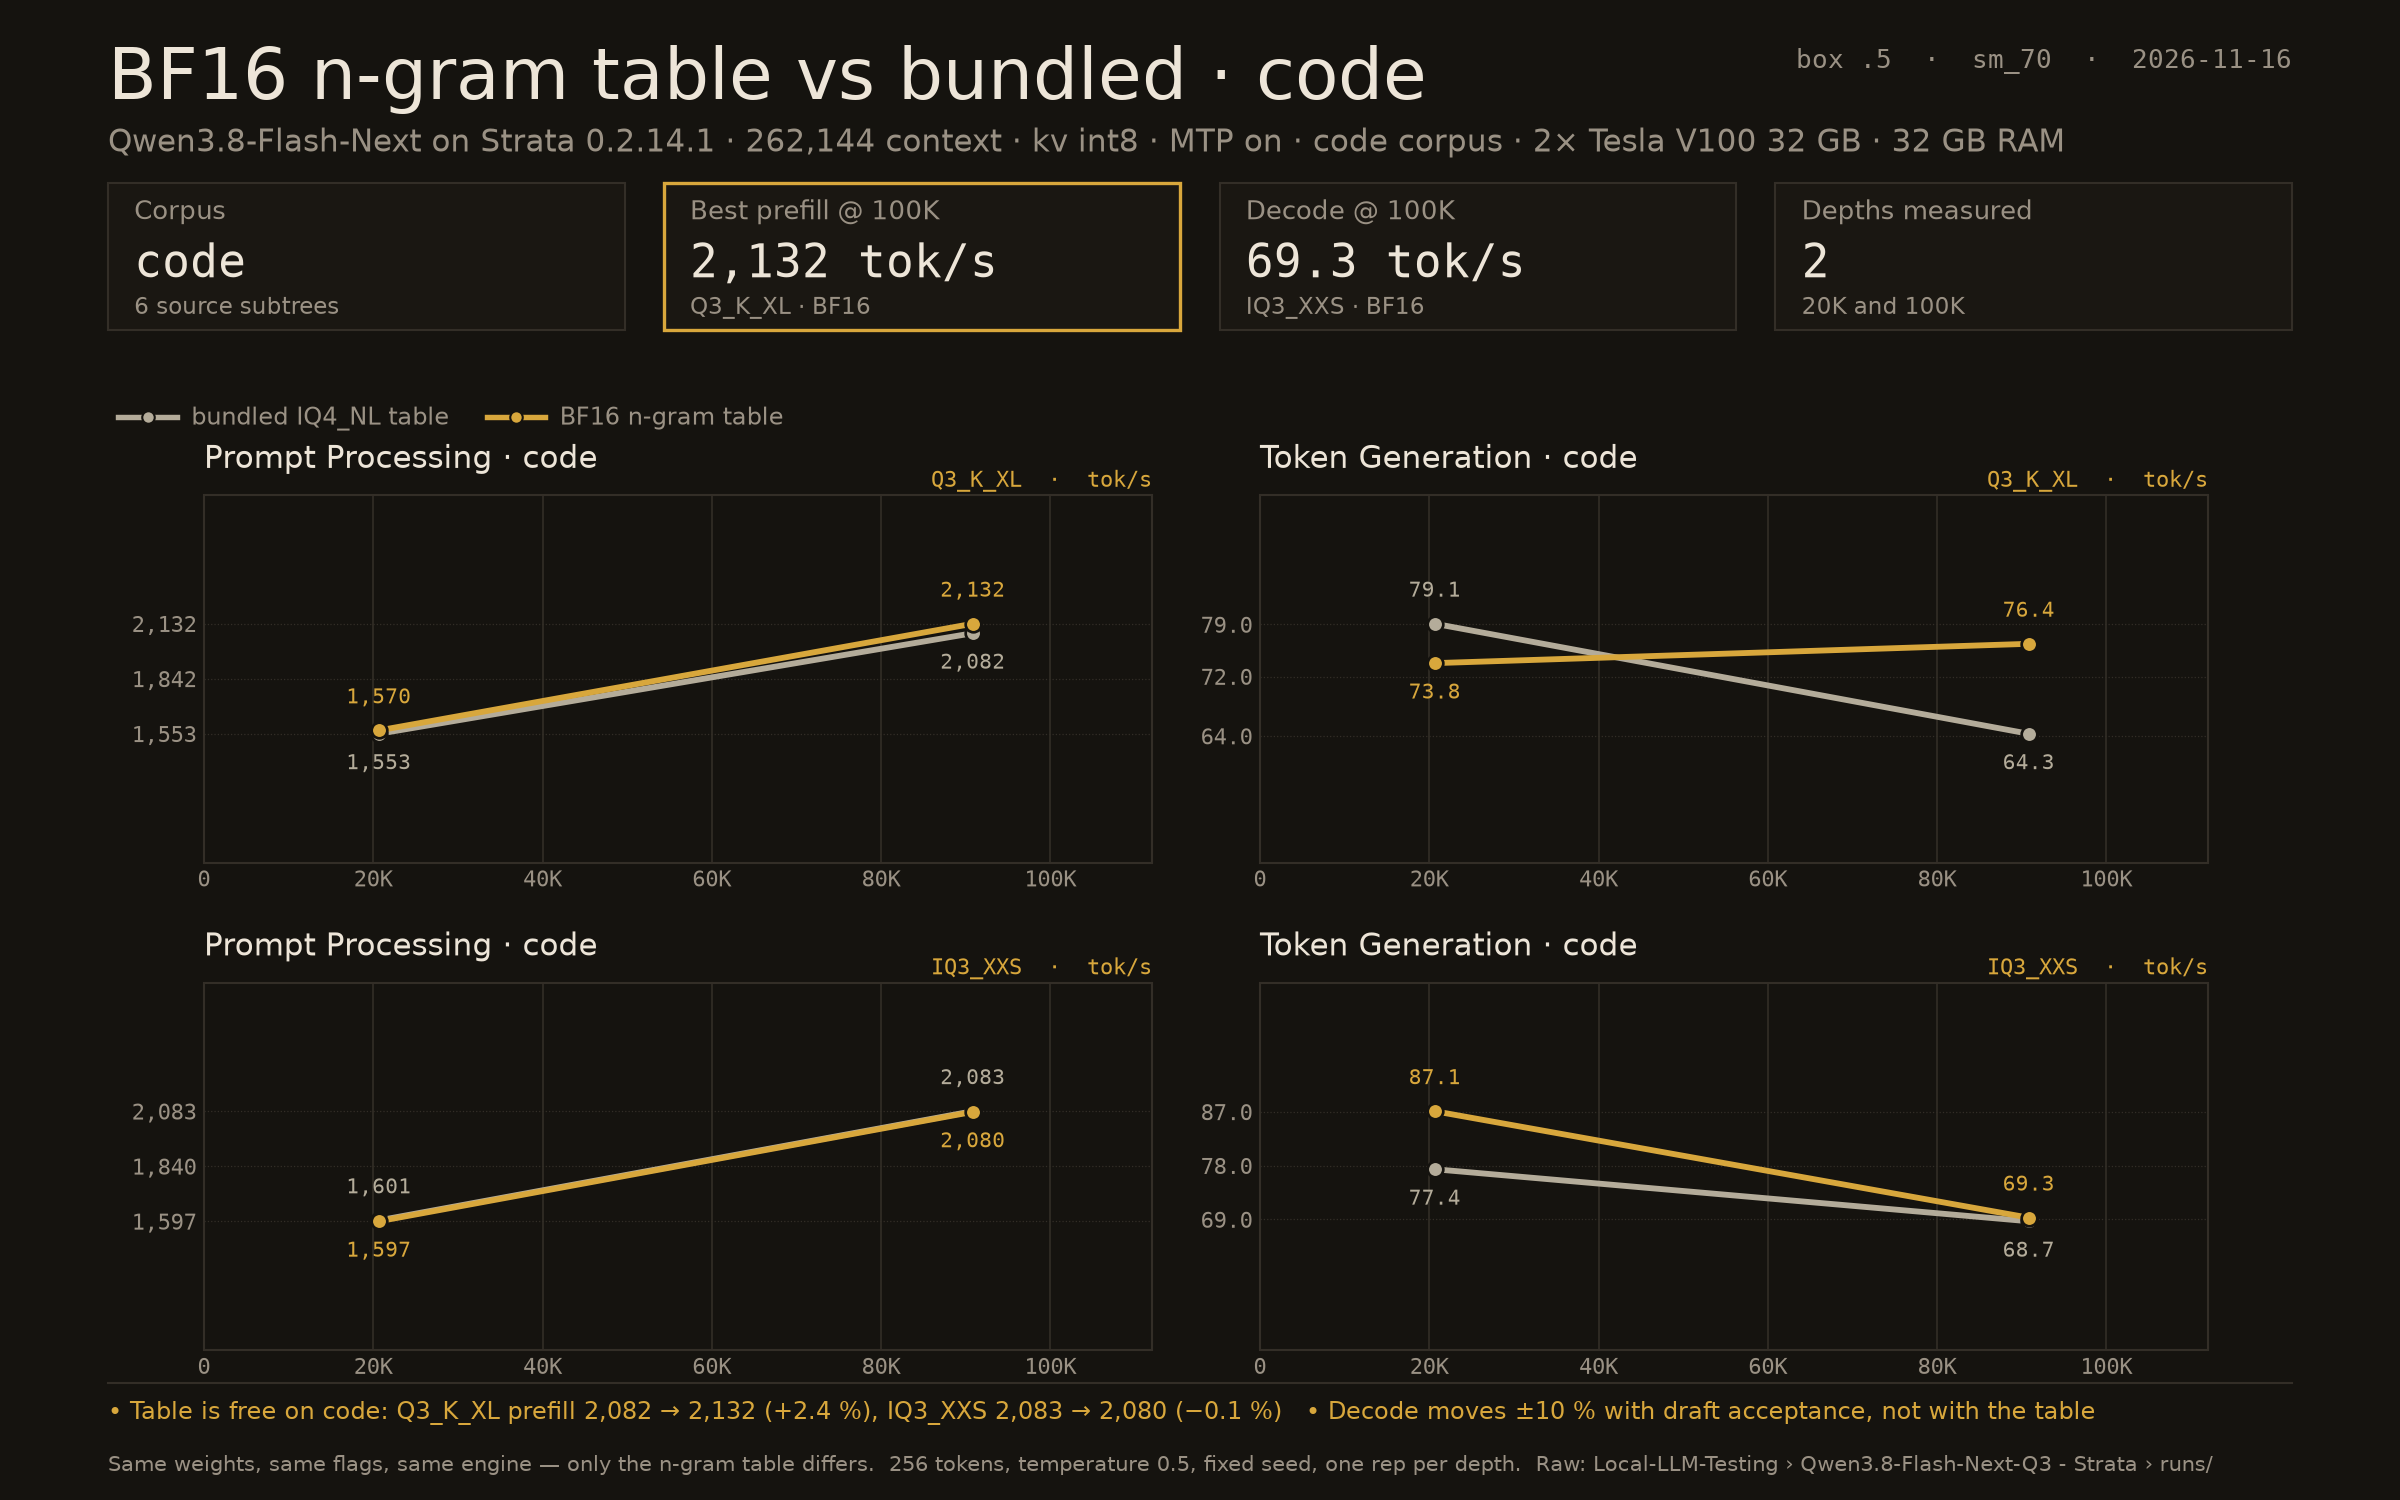
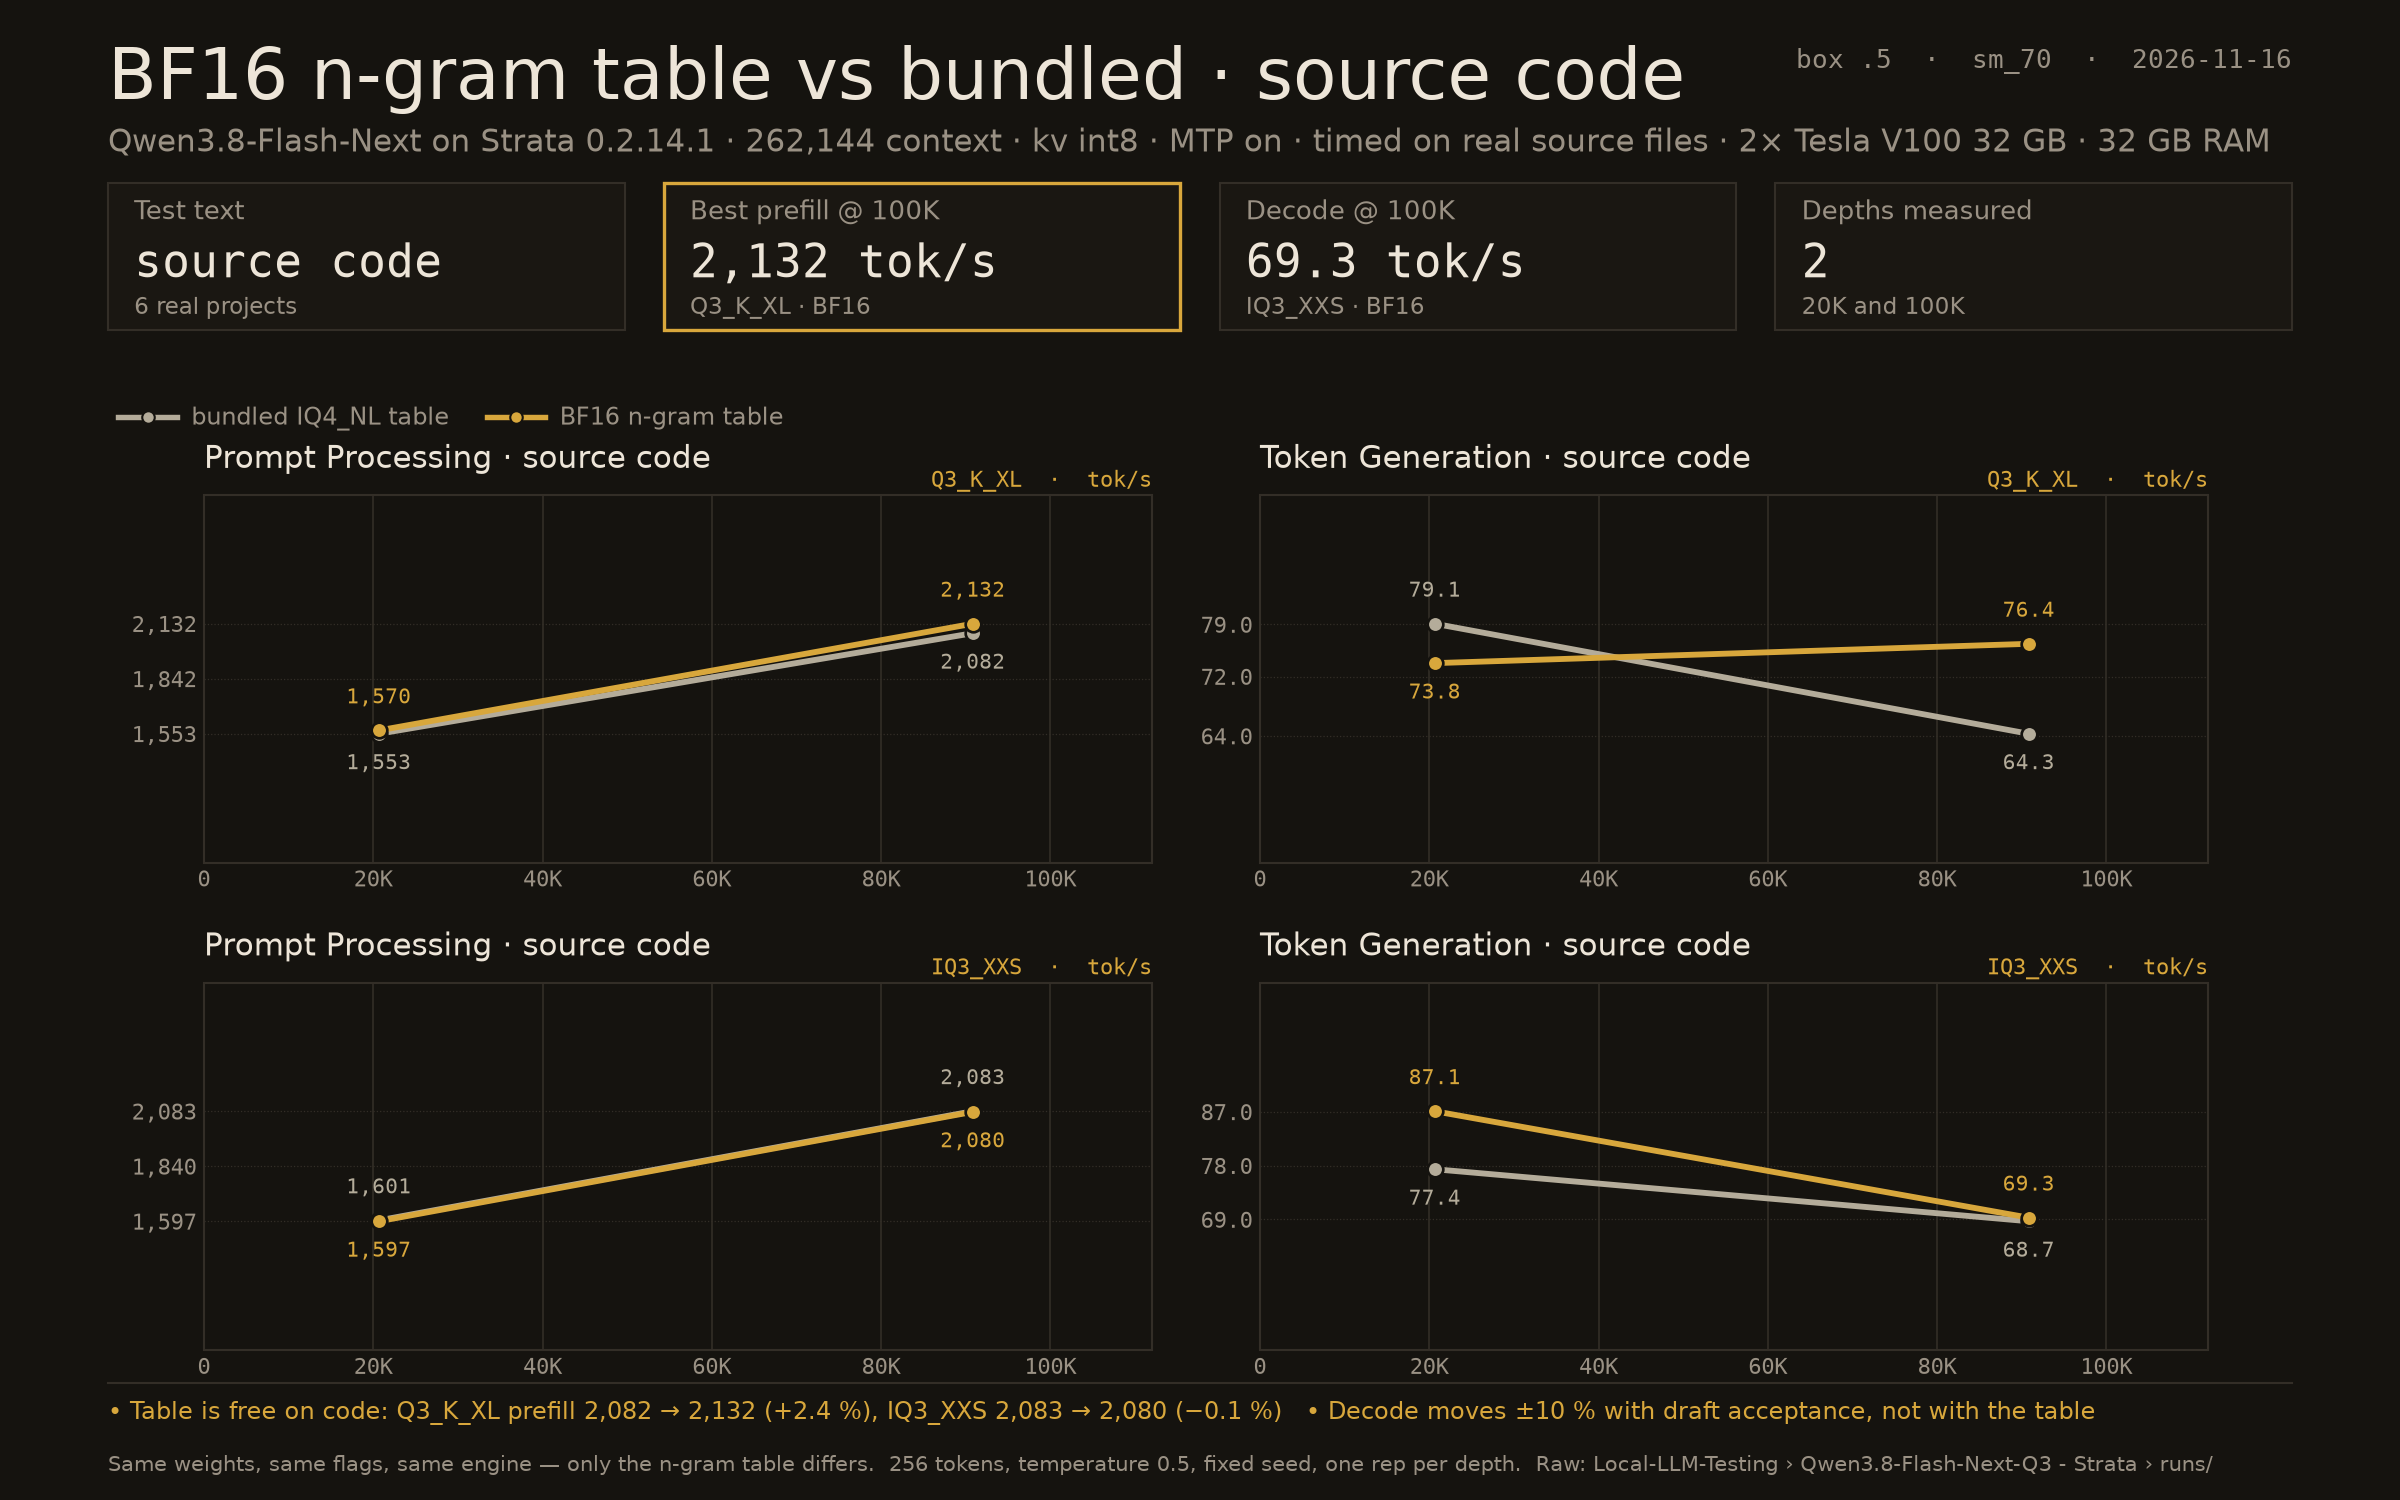
Chart: plainer wording — source code instead of corpus

diff --git a/Qwen3.8-Flash-Next-Q3 - Strata/README.md b/Qwen3.8-Flash-Next-Q3 - Strata/README.md
@@ -74,7 +74,7 @@ Native support for swap-in tables is Strata issue #5248 (open).
 
 ## Chart
 
-`charts/flashnext-q3-code-ngram-lines.png` — the current card: code corpus only, one panel per quant, two
+`charts/flashnext-q3-code-ngram-lines.png` — the current card: timed on real source files only, one panel per quant, two
 lines per panel (bundled IQ4_NL vs BF16 table) against measured prompt tokens. Q3_K_XL prefill 2,082 →
 2,132 (+2.4 %), IQ3_XXS 2,083 → 2,080 (−0.1 %); decode moves ±10 % with draft acceptance, not with the table.
 
